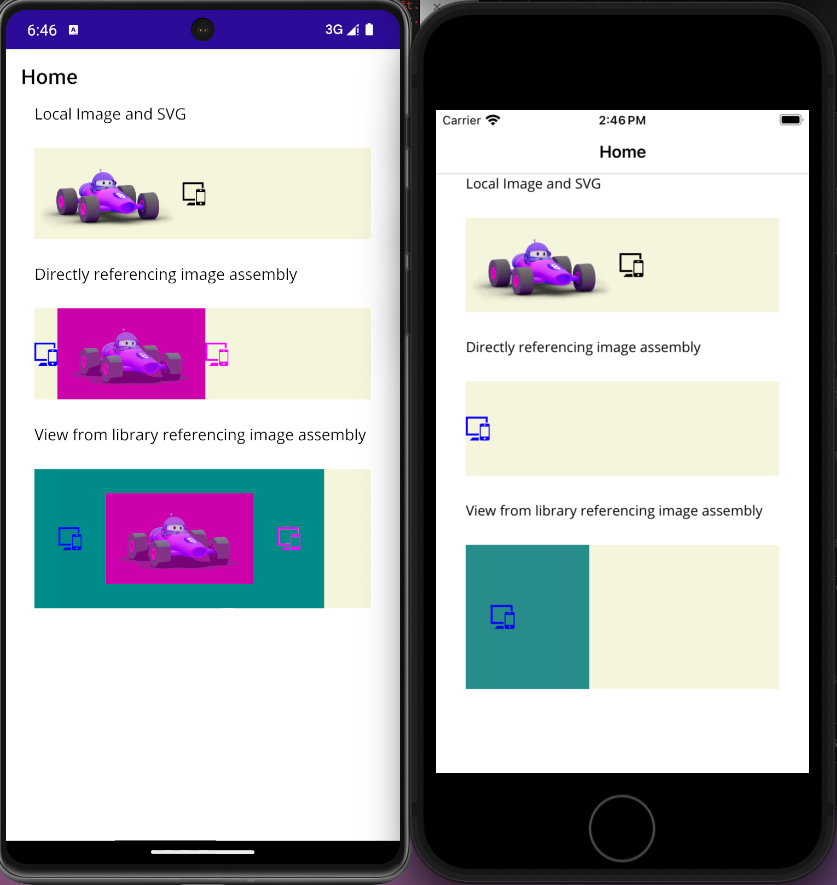
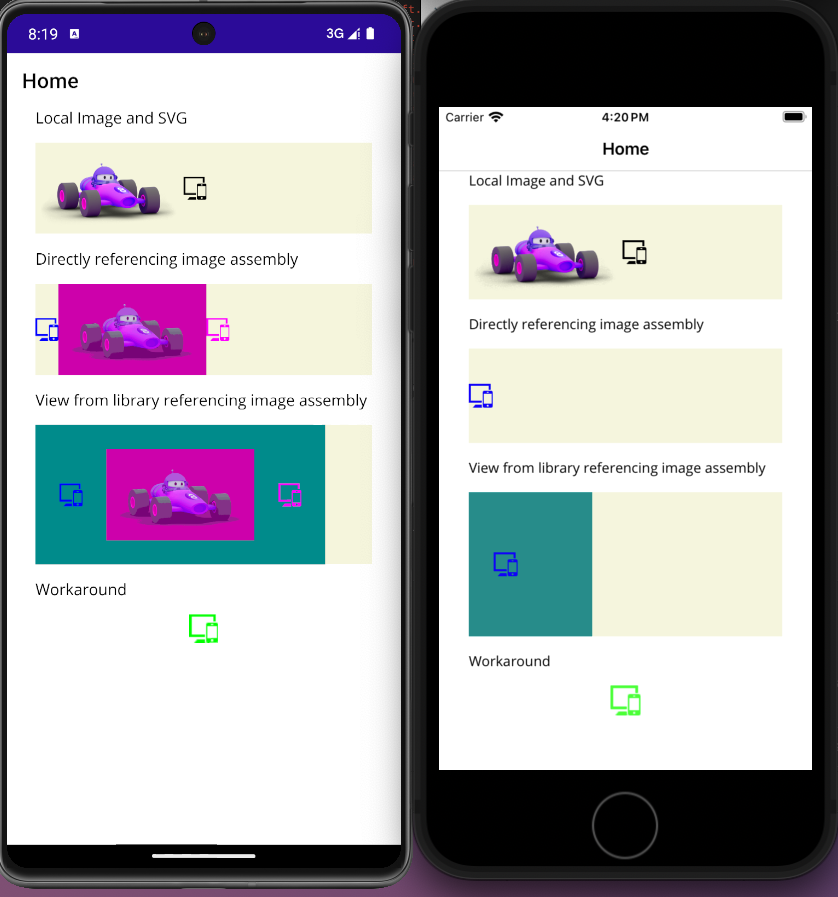
Add workaround

Changed region(s): [[0.0, 0.0, 0.994, 1.0], [0.994, 0.6102, 1.0, 0.9153], [0.994, 0.0915, 1.0, 0.122]]

diff --git a/TestMaui/MainPage.xaml b/TestMaui/MainPage.xaml
@@ -7,7 +7,7 @@
     <ScrollView>
         <VerticalStackLayout
             Padding="30,0"
-            Spacing="25">
+            Spacing="15">
             <Label Text="Local Image and SVG"></Label>
             <HorizontalStackLayout BackgroundColor="Beige">
                 <Image
@@ -33,6 +33,9 @@
             <HorizontalStackLayout BackgroundColor="Beige">
                 <mauiViewLibrary:ImagesView/>
             </HorizontalStackLayout>
+            
+            <Label Text="Workaround"/>
+            <Image HeightRequest="30" x:Name="devices_embedded"/>  
             
             
         </VerticalStackLayout>

diff --git a/TestMaui/MainPage.xaml.cs b/TestMaui/MainPage.xaml.cs
@@ -12,5 +12,43 @@ public partial class MainPage : ContentPage
         view_device.Source = ImageSource.FromFile("view_devices.png");
         bot.Source = ImageSource.FromFile(ImagePaths.BOT_PATH);
         devices.Source = ImageSource.FromFile(ImagePaths.DEVICES_PATH);
+        
+        devices_embedded.Source = ImageSource.FromStream(token =>
+        {
+            return GetImageStream(CancellationToken.None, "MauiImageLibrary.Resources.SVGs.devices.devices_embedded.svg", Assembly.GetAssembly(typeof(ImagePaths)));;
+        });
+    }
+    
+    // Workaround 
+    private static Task<Stream> GetImageStream(CancellationToken token, string resource, Assembly assembly)
+    {
+        return Task.Run<Stream>(() =>
+        {
+            var resourceName = assembly.GetManifestResourceNames().FirstOrDefault(n => n.ToLower() == resource.ToLower());
+
+            using (var stream = assembly.GetManifestResourceStream(resourceName))
+            {
+                var svg = new Svg.Skia.SKSvg();
+                svg.Load(stream);
+
+                using (var bitMap = new SkiaSharp.SKBitmap((int)svg.Drawable.Bounds.Width, (int)svg.Drawable.Bounds.Height))
+                using (var canvas = new SkiaSharp.SKCanvas(bitMap))
+                {
+                    canvas.DrawPicture(svg.Picture);
+                    canvas.Flush();
+                    canvas.Save();
+
+                    using (var image = SkiaSharp.SKImage.FromBitmap(bitMap))
+                    using (var data = image.Encode(SkiaSharp.SKEncodedImageFormat.Png, 80))
+                    {
+                        var memStream = new MemoryStream();
+                        data.SaveTo(memStream);
+                        memStream.Seek(0, SeekOrigin.Begin);
+
+                        return memStream;
+                    }
+                }
+            }
+        });
     }
 }

diff --git a/MauiImageLibrary/ImagePaths.cs b/MauiImageLibrary/ImagePaths.cs
@@ -4,4 +4,5 @@ public static class ImagePaths
 {
     public static string BOT_PATH = "dotnet_bot_edited.png";
     public static string DEVICES_PATH = "devices_edited.png"; // must be PNG, despite SVG 
+    public static string DEVICES_EMBEDDED_PATH = "devices_embedded.png"; 
 }

diff --git a/TestMaui/README.md b/TestMaui/README.md
@@ -8,15 +8,11 @@ Inside of the project, there are three projects representing a sample project:
 
 Represents a library whose intention is to provide images.
 
-Isolated from any other code, all this project contains is PNG and SVG images. The two "MauiImage" resources are tinted magenta.
+Isolated from any other code, all this project contains is a PNG and an SVG image. They are tinted magenta.
 
 <img src="./MauiImageLibrary/Resources/Images/dotnet_bot_edited.png" width=200>
 
 ![device](./MauiImageLibrary/Resources/SVGs/devices/devices_edited.svg)
-
-The "EmbeddedResource" image is tinted green.
-
-![device](./MauiImageLibrary/Resources/SVGs/devices/devices_embedded.svg)
 
 ### MauiViewLibrary
 
@@ -32,12 +28,11 @@ The main maui application references `MauiViewLibrary` and implicitly references
 
 It also has two untinted images used as a basis for loading images into the project, which work on either platform. 
 
-It creates four groups:
+It creates three groups:
 
 - One layout with the png and svg in the local project
 - One layout referencing `MauiViewLibrary` and `MauiImageLibrary`'s image assets
 - One layout referencing `MauiViewLibrary` for the `ImagesView` that it creates
-- An image using a workaround via SkiaSharp
 
 
 ## Result
